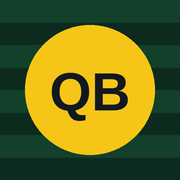
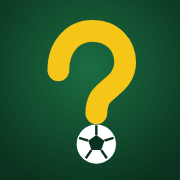
v23: νέο εικονίδιο (ερωτηματικό με μπάλα) για iPhone και Android
Claude-Session: https://claude.ai/code/session_01BkPR5xTk2unA4wuFRwxpHf

diff --git a/sw.js b/sw.js
@@ -1,6 +1,6 @@
 // Quizball service worker: κρατάει το παιχνίδι διαθέσιμο και offline.
 // Άλλαξε τον αριθμό έκδοσης όταν ανεβάζεις νέες ερωτήσεις, για να φορτώσουν σίγουρα.
-const CACHE = 'quizball-2026-11-04e';
+const CACHE = 'quizball-2026-11-04f';
 const CORE = ['./', './index.html', './manifest.webmanifest', './icon-192.png', './icon-512.png', './apple-touch-icon.png'];
 const LOGOS = ["./logos/q_aalborg.png", "./logos/q_adelaide.png", "./logos/q_aik.png", "./logos/q_ajaccio.png", "./logos/q_al_ahli.png", "./logos/q_al_ahly.png", "./logos/q_al_ain.png", "./logos/q_alaves.png", "./logos/q_almeria.png", "./logos/q_america_cali.png", "./logos/q_andorra.png", "./logos/q_angers.png", "./logos/q_argentinos_juniors.png", "./logos/q_aris_limassol.png", "./logos/q_arouca.png", "./logos/q_astana.png", "./logos/q_atlas.png", "./logos/q_atletico_nacional.png", "./logos/q_auckland.png", "./logos/q_augsburg.png", "./logos/q_austin.png", "./logos/q_austria_wien.png", "./logos/q_auxerre.png", "./logos/q_ballkani.png", "./logos/q_barracas.png", "./logos/q_bastia.png", "./logos/q_bate_borisov.png", "./logos/q_birmingham.png", "./logos/q_bolivar.png", "./logos/q_brann.png", "./logos/q_brest.png", "./logos/q_cadiz.png", "./logos/q_catolica.png", "./logos/q_celje.png", "./logos/q_central_coast.png", "./logos/q_cercle_brugge.png", "./logos/q_cfr_cluj.png", "./logos/q_charleroi.png", "./logos/q_charlton.png", "./logos/q_chaves.png", "./logos/q_chicago.png", "./logos/q_cincinnati.png", "./logos/q_clermont.png", "./logos/q_coventry_city.png", "./logos/q_cremonese.png", "./logos/q_cruz_azul.png", "./logos/q_cruzeiro.png", "./logos/q_cukaricki.png", "./logos/q_dallas.png", "./logos/q_darmstadt.png", "./logos/q_dc_united.png", "./logos/q_derby.png", "./logos/q_dinamo_minsk.png", "./logos/q_djurgardens.png", "./logos/q_elfsborg.png", "./logos/q_empoli.png", "./logos/q_esperance.png", "./logos/q_estoril.png", "./logos/q_estudiantes.png", "./logos/q_fortaleza.png", "./logos/q_fredrikstad.png", "./logos/q_frosinone.png", "./logos/q_ga_eagles.png", "./logos/q_gil_vicente.png", "./logos/q_goteborg.png", "./logos/q_grasshopper.png", "./logos/q_groningen.png", "./logos/q_guadalajara.png", "./logos/q_hacken.png", "./logos/q_hajduk.png", "./logos/q_hapoel_beer_sheva.png", "./logos/q_heerenveen.png", "./logos/q_heidenheim.png", "./logos/q_hellas_verona.png", "./logos/q_helsinki.png", "./logos/q_hibernian.png", "./logos/q_holstein_kiel.png", "./logos/q_houston_dynamo.png", "./logos/q_huracan.png", "./logos/q_independiente_valle.png", "./logos/q_jablonec.png", "./logos/q_jagiellonia.png", "./logos/q_juventude.png", "./logos/q_kaiserslautern.png", "./logos/q_kaizer_chiefs.png", "./logos/q_kv_mechelen.png", "./logos/q_las_palmas.png", "./logos/q_lask_linz.png", "./logos/q_lech_poznan.png", "./logos/q_legia_warsaw.png", "./logos/q_levski_sofia.png", "./logos/q_lincoln_red_imps.png", "./logos/q_ludogorets.png", "./logos/q_lugano.png", "./logos/q_luton.png", "./logos/q_maccabi_haifa.png", "./logos/q_mamelodi.png", "./logos/q_maribor.png", "./logos/q_melbourne_city.png", "./logos/q_metz.png", "./logos/q_millonarios.png", "./logos/q_millwall.png", "./logos/q_mineiro.png", "./logos/q_molde.png", "./logos/q_monterrey.png", "./logos/q_montpellier.png", "./logos/q_moreirense.png", "./logos/q_nancy.png", "./logos/q_nashville.png", "./logos/q_nijmegen.png", "./logos/q_noah.png", "./logos/q_nordsjaelland.png", "./logos/q_olimpija.png", "./logos/q_orlando_city.png", "./logos/q_orlando_pirates.png", "./logos/q_oxford.png", "./logos/q_pachuca.png", "./logos/q_palermo.png", "./logos/q_penarol.png", "./logos/q_pereira.png", "./logos/q_philadelphia.png", "./logos/q_pisa.png", "./logos/q_portimonense.png", "./logos/q_portsmouth.png", "./logos/q_preston.png", "./logos/q_qadsiah.png", "./logos/q_racing.png", "./logos/q_rapid_wien.png", "./logos/q_real_oviedo.png", "./logos/q_real_salt_lake.png", "./logos/q_rfs.png", "./logos/q_rijeka.png", "./logos/q_rosenborg.png", "./logos/q_rubin_kazan.png", "./logos/q_san_diego.png", "./logos/q_san_jose.png", "./logos/q_santa_fe.png", "./logos/q_shamrock_rovers.png", "./logos/q_shanghai_port.png", "./logos/q_shanghai_shenhua.png", "./logos/q_sheffield_wed.png", "./logos/q_shkendija.png", "./logos/q_silkeborg.png", "./logos/q_sparta_rotterdam.png", "./logos/q_spartak_moscow.png", "./logos/q_spartak_trnava.png", "./logos/q_sport_recife.png", "./logos/q_sporting_kc.png", "./logos/q_st_gallen.png", "./logos/q_st_louis.png", "./logos/q_st_pauli.png", "./logos/q_sturm_graz.png", "./logos/q_sydney_fc.png", "./logos/q_tigre.png", "./logos/q_tigres.png", "./logos/q_tijuana.png", "./logos/q_toluca.png", "./logos/q_toulouse.png", "./logos/q_troyes.png", "./logos/q_ulsan.png", "./logos/q_union_sg.png", "./logos/q_univ_craiova.png", "./logos/q_urawa.png", "./logos/q_utrecht.png", "./logos/q_valladolid.png", "./logos/q_vasco.png", "./logos/q_viking.png", "./logos/q_vissel_kobe.png", "./logos/q_vitoria_guimaraes.png", "./logos/q_westerlo.png", "./logos/q_western_sydney.png", "./logos/q_wisla_krakow.png", "./logos/q_wolfsberger.png", "./logos/q_wrexham.png", "./logos/q_zorya_luhansk.png", "./logos/q_zurich.png", "./logos/var.png"];
 
